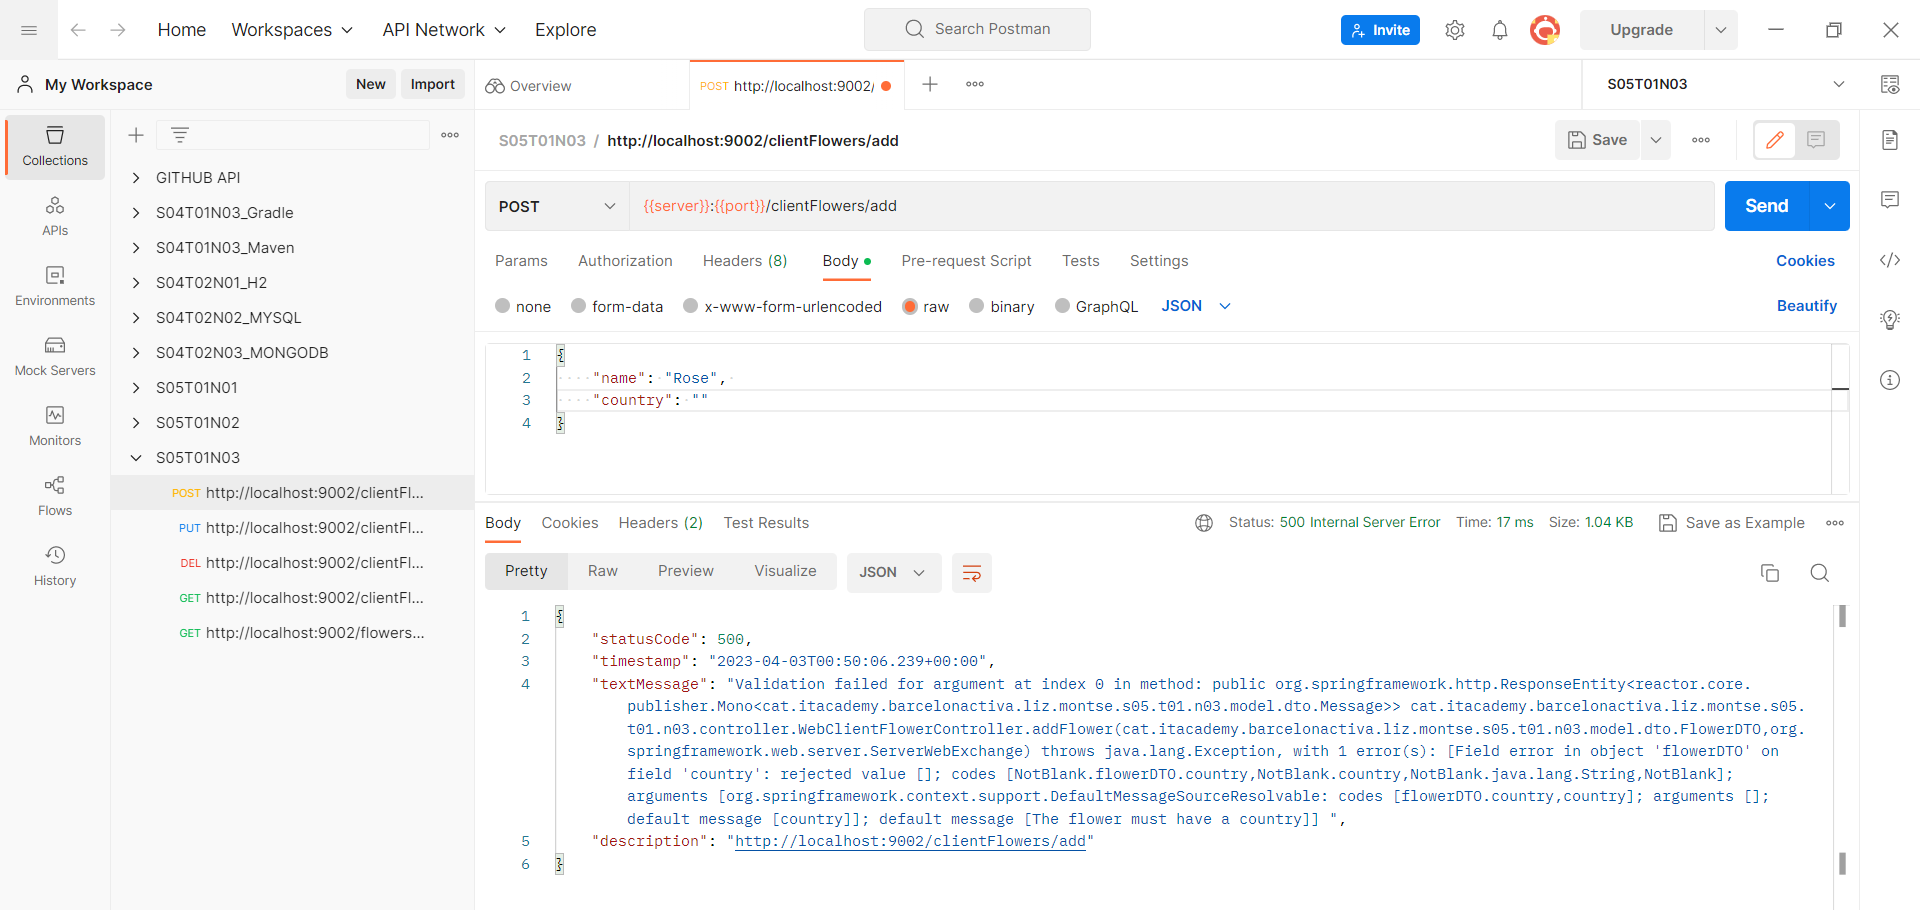
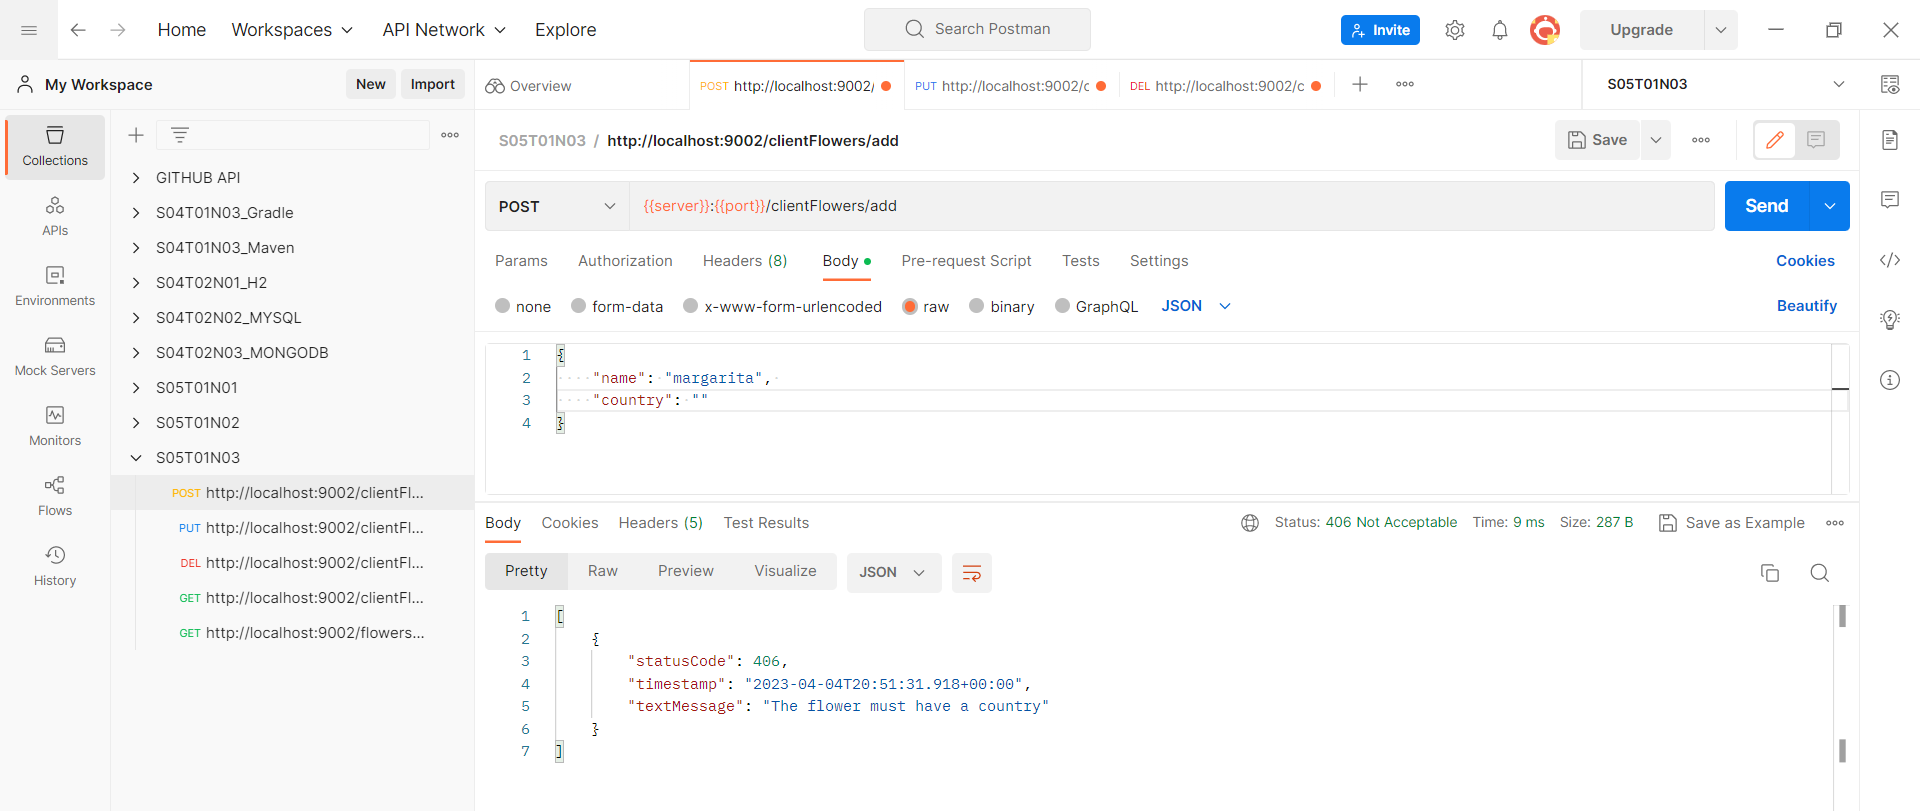
correccio swagger i tasca acabada

diff --git a/S05T01N03LizMontse/src/main/java/cat/itacademy/barcelonactiva/liz/montse/s05/t01/n03/controller/WebClientFlowerController.java b/S05T01N03LizMontse/src/main/java/cat/itacademy/barcelonactiva/liz/montse/s05/t01/n03/controller/WebClientFlowerController.java
@@ -19,7 +19,6 @@ import org.springframework.http.MediaType;
 import org.springframework.http.ResponseEntity;
 import org.springframework.validation.annotation.Validated;
 import org.springframework.web.bind.annotation.*;
-import org.springframework.web.server.ServerWebExchange;
 import reactor.core.publisher.Flux;
 import reactor.core.publisher.Mono;
 
@@ -49,11 +48,11 @@ public class WebClientFlowerController {
             @ApiResponse(responseCode = "500", description = "Internal Server Error while creating the flower", content = {@Content(mediaType = "application/json",
                     schema = @Schema(implementation = Message.class))})})
 
-    public ResponseEntity<Mono<Message>> addFlower(@Valid @RequestBody FlowerDTO flowerDTO, ServerWebExchange exchange) throws Exception {
+    public ResponseEntity<Mono<Message>> addFlower(@Valid @RequestBody FlowerDTO flowerDTO) throws Exception {
 
         try {
             return new ResponseEntity<>(flowerService.createFlower(flowerDTO)
-                    .map(flower -> new Message(HttpStatus.CREATED.value(), new Date(), "Flower created and added successfully into the database", exchange.getRequest().getURI().toString())),
+                    .map(flower -> new Message(HttpStatus.CREATED.value(), new Date(), "Flower created and added successfully into the database")),
                     HttpStatus.CREATED);
         } catch (Exception e) {
             throw new Exception( "Internal Server Error while creating the flower", e.getCause());
@@ -73,10 +72,10 @@ public class WebClientFlowerController {
                     schema = @Schema(implementation = Message.class))})})
 
     public ResponseEntity<Mono<Message>> updateFlower(@Parameter(description = "The id of the flower to be updated") @PathVariable int id,
-                                                      @Valid @RequestBody FlowerDTO flowerDTO, ServerWebExchange exchange) throws Exception {
+                                                      @Valid @RequestBody FlowerDTO flowerDTO) throws Exception {
         try {
             return new ResponseEntity<>(flowerService.editFlower(id, flowerDTO)
-                    .map(flower -> new Message(HttpStatus.OK.value(), new Date(), "Flower updated correctly", exchange.getRequest().getURI().toString())),
+                    .map(flower -> new Message(HttpStatus.OK.value(), new Date(), "Flower updated correctly")),
                     HttpStatus.OK);
         } catch (FlowerNotFoundException e) {
             throw e;
@@ -95,11 +94,11 @@ public class WebClientFlowerController {
             @ApiResponse(responseCode = "500", description = "Internal Server Error while deleting the flower", content = {@Content(mediaType = "application/json",
                     schema = @Schema(implementation = Message.class))})})
 
-    public ResponseEntity<Mono<Message>> deleteFlower(@Parameter(description = "The id of the flower to be removed") @PathVariable int id,
-                                                      ServerWebExchange exchange) throws Exception {
+    public ResponseEntity<Mono<Message>> deleteFlower(@Parameter(description = "The id of the flower to be removed") @PathVariable int id) throws Exception {
+
         try {
             return new ResponseEntity<>(flowerService.removeFlower(id)
-                    .map(flower -> new Message(HttpStatus.OK.value(), new Date(), "Flower removed successfully", exchange.getRequest().getURI().toString())),
+                    .map(flower -> new Message(HttpStatus.OK.value(), new Date(), "Flower removed successfully")),
                     HttpStatus.OK);
         } catch (FlowerNotFoundException e) {
             throw e;

diff --git a/S05T01N03LizMontse/src/main/java/cat/itacademy/barcelonactiva/liz/montse/s05/t01/n03/model/exception/ControllerExceptionHandler.java b/S05T01N03LizMontse/src/main/java/cat/itacademy/barcelonactiva/liz/montse/s05/t01/n03/model/exception/ControllerExceptionHandler.java
@@ -3,12 +3,10 @@ package cat.itacademy.barcelonactiva.liz.montse.s05.t01.n03.model.exception;
 import cat.itacademy.barcelonactiva.liz.montse.s05.t01.n03.model.dto.Message;
 import org.springframework.http.HttpStatus;
 import org.springframework.http.ResponseEntity;
-import org.springframework.validation.FieldError;
 import org.springframework.web.bind.MethodArgumentNotValidException;
 import org.springframework.web.bind.annotation.ExceptionHandler;
 import org.springframework.web.bind.annotation.ResponseStatus;
 import org.springframework.web.bind.annotation.RestControllerAdvice;
-import org.springframework.web.server.ServerWebExchange;
 
 import java.util.ArrayList;
 import java.util.Date;
@@ -19,16 +17,16 @@ public class ControllerExceptionHandler {
 
     @ExceptionHandler(FlowerNotFoundException.class)
     @ResponseStatus(value = HttpStatus.NOT_FOUND)
-    public ResponseEntity<Message> flowerNotFoundExceptionHandler(FlowerNotFoundException exception, ServerWebExchange exchange) {
+    public ResponseEntity<Message> flowerNotFoundExceptionHandler(FlowerNotFoundException exception) {
 
-        return new ResponseEntity<>(new Message(HttpStatus.NOT_FOUND.value(), new Date(), exception.getMessage(), exchange.getRequest().getURI().toString()), HttpStatus.NOT_FOUND);
+        return new ResponseEntity<>(new Message(HttpStatus.NOT_FOUND.value(), new Date(), exception.getMessage()), HttpStatus.NOT_FOUND);
     }
 
     @ExceptionHandler(Exception.class)
     @ResponseStatus(value = HttpStatus.INTERNAL_SERVER_ERROR)
-    public ResponseEntity<Message> internalServerErrorExceptionHandler(Exception exception, ServerWebExchange exchange) {
+    public ResponseEntity<Message> internalServerErrorExceptionHandler(Exception exception) {
 
-        return new ResponseEntity<>(new Message(HttpStatus.INTERNAL_SERVER_ERROR.value(), new Date(), exception.getMessage(), exchange.getRequest().getURI().toString()), HttpStatus.INTERNAL_SERVER_ERROR);
+        return new ResponseEntity<>(new Message(HttpStatus.INTERNAL_SERVER_ERROR.value(), new Date(), exception.getMessage()), HttpStatus.INTERNAL_SERVER_ERROR);
     }
 
     @ExceptionHandler(MethodArgumentNotValidException.class)
@@ -37,7 +35,7 @@ public class ControllerExceptionHandler {
 
         List<Message> errors = new ArrayList<>();
         exception.getBindingResult().getAllErrors().forEach(error ->
-                errors.add(new Message(HttpStatus.NOT_ACCEPTABLE.value(), new Date(), error.getDefaultMessage(), ((FieldError) error).getField())));
+                errors.add(new Message(HttpStatus.NOT_ACCEPTABLE.value(), new Date(), error.getDefaultMessage())));
 
         return new ResponseEntity<>(errors, HttpStatus.NOT_ACCEPTABLE);
     }

diff --git a/S05T01N03LizMontse/src/main/java/cat/itacademy/barcelonactiva/liz/montse/s05/t01/n03/model/dto/FlowerDTO.java b/S05T01N03LizMontse/src/main/java/cat/itacademy/barcelonactiva/liz/montse/s05/t01/n03/model/dto/FlowerDTO.java
@@ -32,7 +32,6 @@ public class FlowerDTO {
             "Latvia", "Lithuania", "Luxembourg", "Malta", "Netherlands", "Poland", "Portugal", "Romania", "Slovakia",
             "Slovenia", "Spain", "Sweden");
 
-
     public FlowerDTO(String name, String country) {
         this.name = name;
         this.country = country;

diff --git a/S05T01N03LizMontse/src/main/java/cat/itacademy/barcelonactiva/liz/montse/s05/t01/n03/model/dto/Message.java b/S05T01N03LizMontse/src/main/java/cat/itacademy/barcelonactiva/liz/montse/s05/t01/n03/model/dto/Message.java
@@ -14,6 +14,5 @@ public class Message {
     private int statusCode;
     private Date timestamp;
     private String textMessage;
-    private String description;
 
 }

diff --git a/S05T01N03LizMontse/README.md b/S05T01N03LizMontse/README.md
@@ -11,6 +11,7 @@
 ![add.PNG](captures%2Fadd.PNG)
 ![add2.PNG](captures%2Fadd2.PNG)
 ![add3.PNG](captures%2Fadd3.PNG)
+![add4.PNG](captures%2Fadd4.PNG)
 
 ### Request PUT:
 
